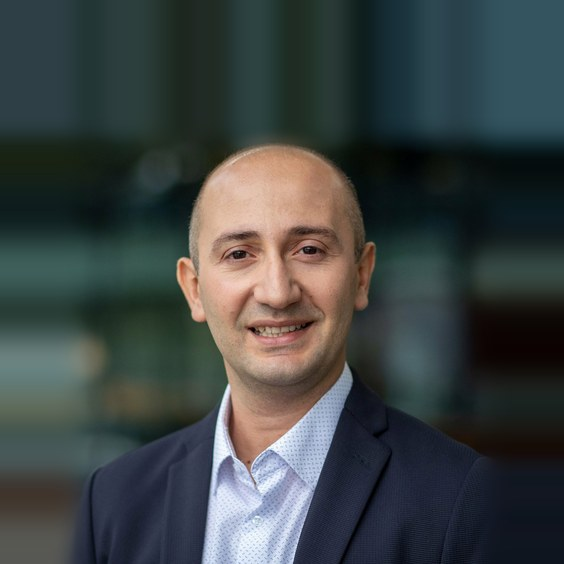
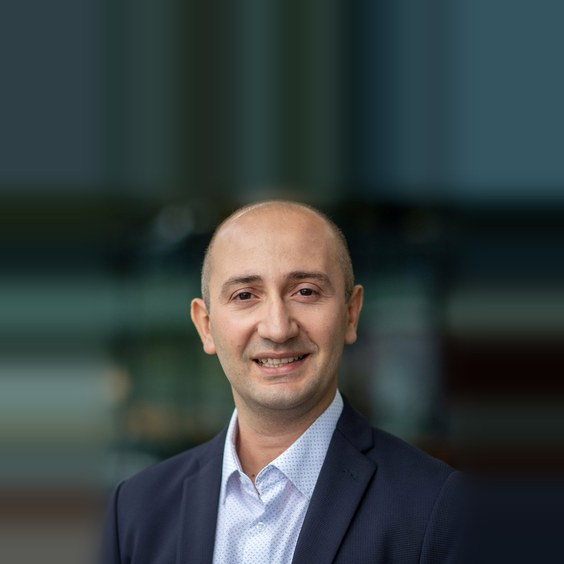
Board: zoom out Dr. Alp Akcay's photo further; bust image cache

diff --git a/index.html b/index.html
@@ -612,7 +612,7 @@
         <div class="person"><div class="portrait" aria-hidden="true"><span class="ini">LA</span></div><span class="role">Webmaster</span><b>Lokesh Addagiri</b><span class="prog">Data Science and Business</span></div>
         <div class="person"><div class="portrait" aria-hidden="true"><span class="ini">AK</span></div><span class="role">Membership Outreach</span><b>Aditya Kadlabal Sripad</b><span class="prog">MS, Engineering Management</span></div>
         <div class="person"><div class="portrait" aria-hidden="true"><span class="ini">KW</span></div><span class="role">Community Service</span><b>Kira Woodhouse</b><span class="prog">PhD, Industrial Engineering</span></div>
-        <a class="person" href="https://sites.google.com/view/alp-akcay" target="_blank" rel="noopener" aria-label="Dr. Alp Akcay, faculty website"><div class="portrait has-photo"><img src="photos/board/alp_akcay.jpg" width="564" height="564" alt="Dr. Alp Akcay" loading="lazy"></div><span class="role">Faculty Advisor</span><b>Dr. Alp Akcay</b><span class="prog">Associate Professor, Mechanical and Industrial Engineering</span></a>
+        <a class="person" href="https://sites.google.com/view/alp-akcay" target="_blank" rel="noopener" aria-label="Dr. Alp Akcay, faculty website"><div class="portrait has-photo"><img src="photos/board/alp_akcay.jpg?v=2" width="564" height="564" alt="Dr. Alp Akcay" loading="lazy"></div><span class="role">Faculty Advisor</span><b>Dr. Alp Akcay</b><span class="prog">Associate Professor, Mechanical and Industrial Engineering</span></a>
       </div>
       <div class="roles">
         <h3>Open Positions</h3>
